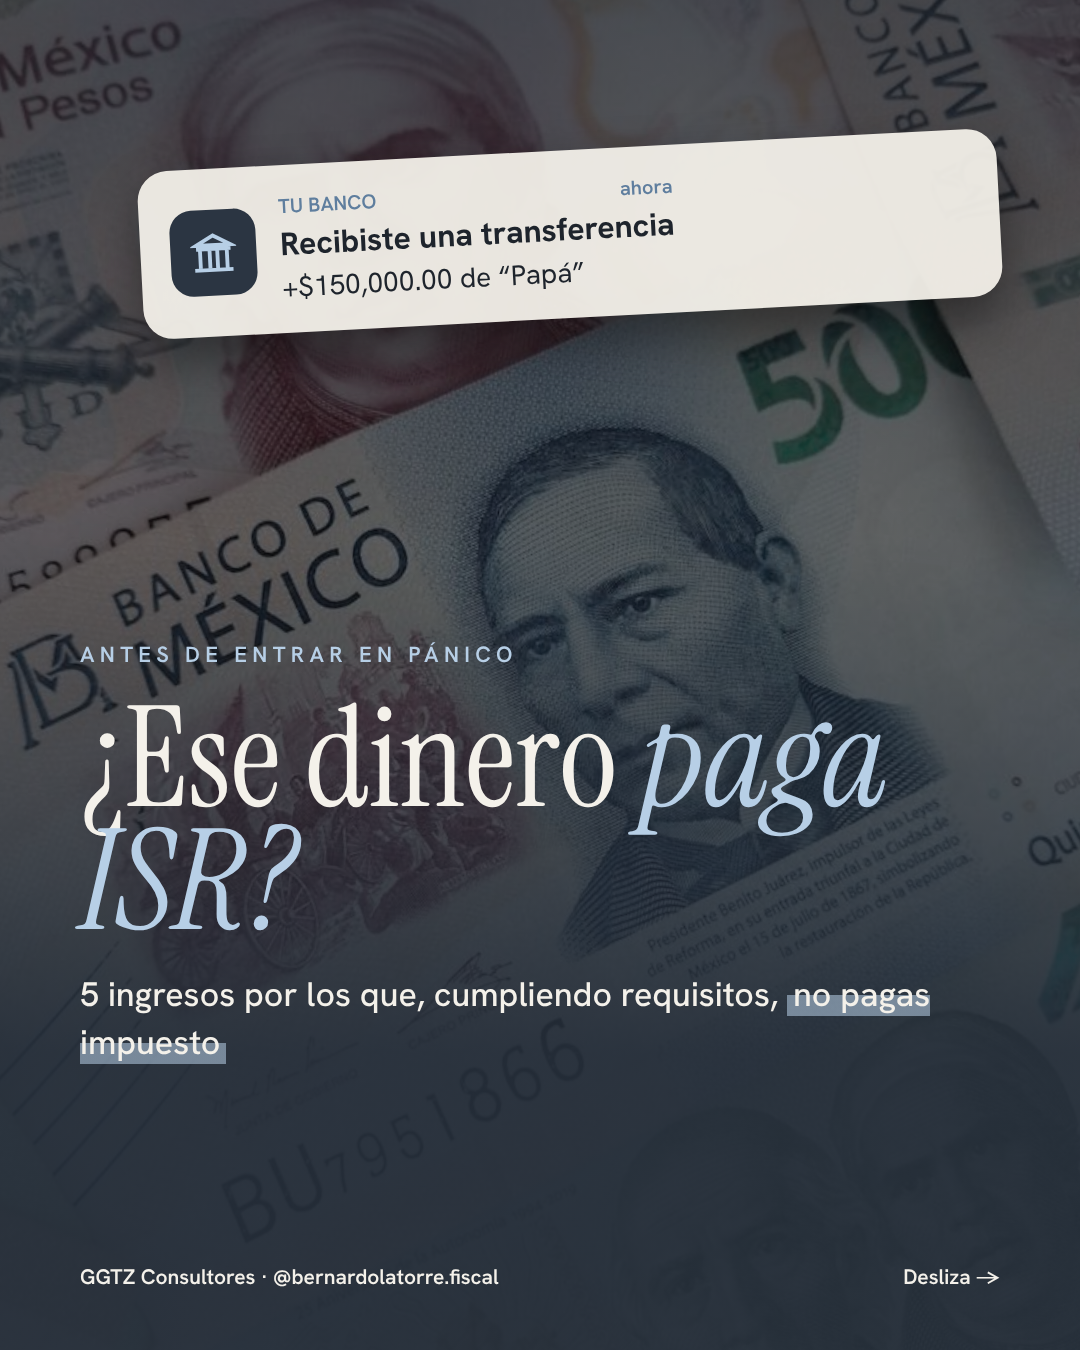
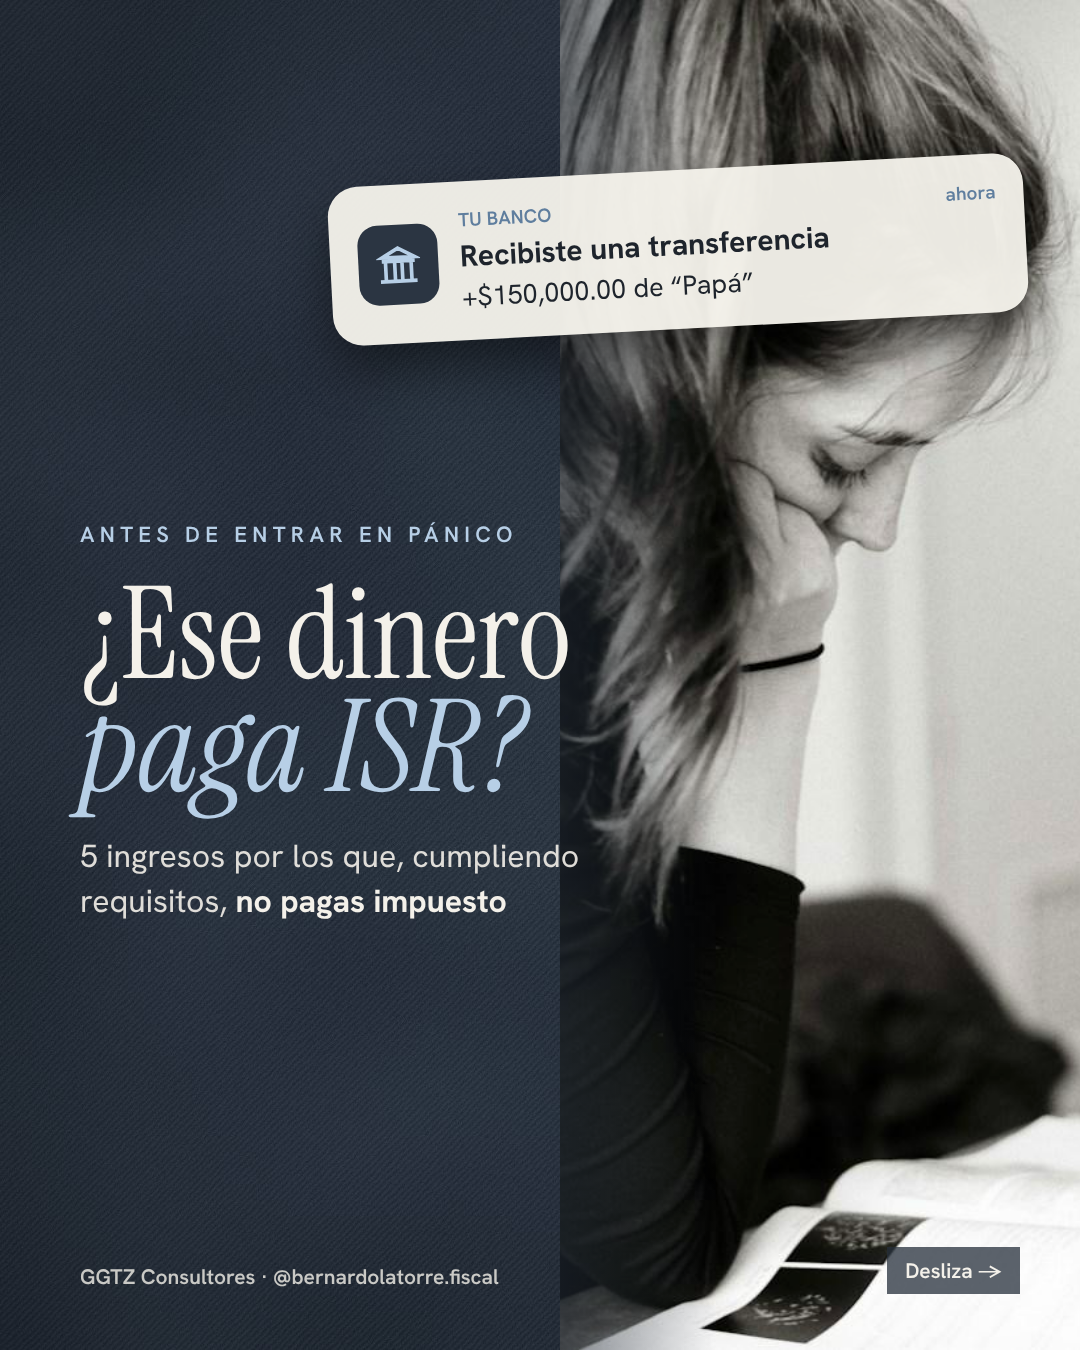
Portadas 20 y 22 oct sin billetes; regla de análisis de portadas
Claude-Session: https://claude.ai/code/session_01J2dboEZNzBYhxcXmwSfC74

diff --git a/recursos/plantillas/Nun-01-Portada.dc.html b/recursos/plantillas/Nun-01-Portada.dc.html
@@ -21,19 +21,22 @@ a{color:inherit}
 .kicker{font-size:22px;font-weight:600;letter-spacing:0.24em}
 </style>
 </helmet>
-<div class="bg-papel" style="width: 1080px; height: 1350px; position: relative; overflow: hidden; font-family: 'Hanken Grotesk', sans-serif; color: #1E242C;">
+<div class="" style="width: 1080px; height: 1350px; position: relative; overflow: hidden; font-family: 'Hanken Grotesk', sans-serif; color: #1E242C; background: #B7CFE6;">
 
-<div style="position: absolute; left: 0; top: 0; width: 1080px; height: 300px; overflow: hidden">
-<img src="/_blob/29e4c8d2580b23552880ae35ab069428" alt="Billetes mexicanos de 500, 200 y 50 pesos" style="width: 100%; height: 100%; object-fit: cover; object-position: 50% 45%; filter: saturate(0.85)">
+<div aria-hidden="true" style="position: absolute; inset: 0; background-image: radial-gradient(rgba(43,53,66,0.13) 2px, transparent 2.5px); background-size: 30px 30px"></div>
+<div class="serif" aria-hidden="true" style="position: absolute; right: -40px; top: -150px; font-size: 900px; line-height: 1; color: rgba(255,253,248,0.45)">5</div>
+<div style="position: absolute; left: 80px; top: 96px; right: 80px; display: flex; flex-direction: column; gap: 26px">
+<div style="align-self: flex-start; padding: 12px 22px; background: #2B3542; color: #F4F1EA; font-size: 20px; font-weight: 700; letter-spacing: 0.2em; transform: rotate(-2deg)">PALABRA DE CONTADOR</div>
+<h1 class="serif" style="margin: 0; font-size: 136px; line-height: 0.88; color: #1E242C">5 cosas que <em style="font-style: italic">nunca</em> haría con mis impuestos</h1>
 </div>
-<svg aria-hidden="true" style="position: absolute; left: 0; top: 270px" width="1080" height="60" viewBox="0 0 1080 60" preserveAspectRatio="none"><path d="M0 0 L0 30 L40 18 L85 36 L130 14 L180 34 L230 20 L275 38 L320 16 L370 32 L420 12 L465 34 L515 22 L560 40 L610 16 L655 30 L705 14 L750 36 L800 20 L850 38 L900 18 L945 32 L995 14 L1040 30 L1080 20 L1080 0 Z" fill="none"></path><path d="M0 30 L40 18 L85 36 L130 14 L180 34 L230 20 L275 38 L320 16 L370 32 L420 12 L465 34 L515 22 L560 40 L610 16 L655 30 L705 14 L750 36 L800 20 L850 38 L900 18 L945 32 L995 14 L1040 30 L1080 20 L1080 60 L0 60 Z" fill="#F4F1EA"></path></svg>
-<div style="position: absolute; left: 80px; top: 380px; right: 80px; display: flex; flex-direction: column; gap: 30px">
-<div class="kicker" style="color: #5F7E9E">PALABRA DE CONTADOR</div>
-<h1 class="serif" style="margin: 0; font-size: 150px; line-height: 0.86; color: #2B3542"><span style="font-size: 260px; line-height: 0.7; color: #C98F7E; float: left; margin: 18px 26px 0 -6px">5</span>cosas que <em style="font-style: italic">nunca</em> haría con mis impuestos</h1>
-<p style="margin: 0; font-size: 36px; line-height: 1.35; font-weight: 500">…ni con mi dinero. <span style="background: linear-gradient(transparent 52%, #B7CFE6 52%); padding: 0 6px">La 3 casi nadie la ve venir.</span></p>
+<div class="hoja" style="position: absolute; left: 110px; top: 700px; width: 700px; box-sizing: border-box; padding: 40px 50px 30px; transform: rotate(-3deg); box-shadow: 0 26px 50px rgba(30,36,44,0.28)">
+<div class="kicker" style="font-size: 19px; color: #5F7E9E; padding-bottom: 6px">MI LISTA DE “NO”</div>
+<div style="display: flex; align-items: center; gap: 22px; padding: 20px 0; border-bottom: 2px dashed rgba(43,53,66,0.18)"><svg aria-hidden="true" width="44" height="44" viewBox="0 0 24 24" style="flex-shrink: 0"><rect x="2" y="2" width="20" height="20" rx="4" fill="none" stroke="#2B3542" stroke-width="2"></rect><path d="M7 7l10 10M17 7L7 17" stroke="#C98F7E" stroke-width="3" stroke-linecap="round"></path></svg><span style="font-size: 34px; text-decoration: line-through; text-decoration-color: #C98F7E; text-decoration-thickness: 4px;">Comprar facturas</span></div><div style="display: flex; align-items: center; gap: 22px; padding: 20px 0; border-bottom: 2px dashed rgba(43,53,66,0.18)"><svg aria-hidden="true" width="44" height="44" viewBox="0 0 24 24" style="flex-shrink: 0"><rect x="2" y="2" width="20" height="20" rx="4" fill="none" stroke="#2B3542" stroke-width="2"></rect><path d="M7 7l10 10M17 7L7 17" stroke="#C98F7E" stroke-width="3" stroke-linecap="round"></path></svg><span style="font-size: 34px; text-decoration: line-through; text-decoration-color: #C98F7E; text-decoration-thickness: 4px;">Pedir factura de todo</span></div><div style="display: flex; align-items: center; gap: 22px; padding: 20px 0; border-bottom: 2px dashed rgba(43,53,66,0.18)"><svg aria-hidden="true" width="44" height="44" viewBox="0 0 24 24" style="flex-shrink: 0"><rect x="2" y="2" width="20" height="20" rx="4" fill="none" stroke="#2B3542" stroke-width="2"></rect><path d="M7 7l10 10M17 7L7 17" stroke="#C98F7E" stroke-width="3" stroke-linecap="round"></path></svg><span style="font-size: 34px; ">No facturar todo lo que…</span></div>
+<div style="height: 70px; background: linear-gradient(rgba(255,253,248,0), #FFFDF8)"></div>
 </div>
-<div style="position: absolute; left: 760px; top: 1060px; padding: 10px 24px; border: 5px solid #C98F7E; color: #C98F7E; font-size: 44px; font-weight: 700; letter-spacing: 0.18em; border-radius: 10px; transform: rotate(-12deg); opacity: 0.92">NUNCA</div>
-<div style="position: absolute; left: 80px; right: 80px; bottom: 60px; display: flex; justify-content: space-between; font-size: 21px; font-weight: 600; color: #5F7E9E"><span>GGTZ Consultores · @bernardolatorre.fiscal</span><span>Desliza →</span></div>
+<div aria-hidden="true" style="position: absolute; left: 380px; top: 676px; width: 200px; height: 40px; background: rgba(255,253,248,0.75); transform: rotate(4deg)"></div>
+<div class="sticker" style="position: absolute; left: 720px; top: 1010px; transform: rotate(8deg)"><div style="padding: 22px 28px; background: #C98F7E; color: #FFFFFF; border-radius: 50%; width: 200px; height: 200px; box-sizing: border-box; display: flex; align-items: center; justify-content: center; text-align: center; font-size: 25px; font-weight: 700; line-height: 1.2">La 3 casi nadie la ve venir</div></div>
+<div style="position: absolute; left: 80px; right: 80px; bottom: 60px; display: flex; justify-content: space-between; font-size: 21px; font-weight: 600; color: #2B3542"><span>GGTZ Consultores · @bernardolatorre.fiscal</span><span>Desliza →</span></div>
 
 </div>
 </x-dc>

diff --git a/recursos/plantillas/Exe-01-Portada.dc.html b/recursos/plantillas/Exe-01-Portada.dc.html
@@ -21,20 +21,23 @@ a{color:inherit}
 .kicker{font-size:22px;font-weight:600;letter-spacing:0.24em}
 </style>
 </helmet>
-<div class="" style="width: 1080px; height: 1350px; position: relative; overflow: hidden; font-family: 'Hanken Grotesk', sans-serif; color: #F4F1EA;">
+<div class="bg-sarga" style="width: 1080px; height: 1350px; position: relative; overflow: hidden; font-family: 'Hanken Grotesk', sans-serif; color: #F4F1EA;">
 
-<img src="/_blob/29e4c8d2580b23552880ae35ab069428" alt="Billetes de 500 pesos" style="position: absolute; inset: 0; width: 100%; height: 100%; object-fit: cover; object-position: 30% 50%; transform: scale(1.15) rotate(6deg); filter: saturate(0.7) brightness(0.55)">
-<div aria-hidden="true" style="position: absolute; inset: 0; background: linear-gradient(180deg, rgba(38,47,59,0.55) 0%, rgba(38,47,59,0.2) 40%, rgba(38,47,59,0.92) 78%)"></div>
-<div style="position: absolute; left: 140px; top: 150px; width: 800px; padding: 28px 30px; background: rgba(244,241,234,0.94); border-radius: 30px; color: #1E242C; display: flex; gap: 24px; align-items: center; box-shadow: 0 24px 50px rgba(0,0,0,0.4); transform: rotate(-3deg)">
-<div style="width: 86px; height: 86px; border-radius: 22px; background: #2B3542; display: flex; align-items: center; justify-content: center; flex-shrink: 0"><svg aria-hidden="true" width="46" height="46" viewBox="0 0 24 24" fill="none" stroke="#B7CFE6" stroke-width="2"><path d="M3 10h18M5 10V20M10 10v10M14 10v10M19 10v10M2 21h20M12 3l9 5H3z"></path></svg></div>
-<div style="display: flex; flex-direction: column; gap: 4px"><div style="display: flex; justify-content: space-between; font-size: 20px; color: #5F7E9E; font-weight: 600"><span>TU BANCO</span><span>ahora</span></div><div style="font-size: 32px; font-weight: 700">Recibiste una transferencia</div><div style="font-size: 28px">+$150,000.00 de “Papá”</div></div>
+<div style="position: absolute; right: 0; top: 0; width: 520px; height: 1350px; overflow: hidden">
+<img src="/_blob/a02e797c6e63f92e4b9aa4f8ded12cb8" alt="Mujer pensativa leyendo" style="width: 100%; height: 100%; object-fit: cover; object-position: 38% 50%">
+<div aria-hidden="true" style="position: absolute; inset: 0; background: linear-gradient(90deg, rgba(38,47,59,0.55) 0%, rgba(38,47,59,0) 30%)"></div>
 </div>
-<div style="position: absolute; left: 80px; right: 80px; top: 640px; display: flex; flex-direction: column; gap: 28px">
+<div style="position: absolute; left: 330px; top: 170px; width: 640px; padding: 26px 28px; background: rgba(244,241,234,0.96); border-radius: 30px; color: #1E242C; display: flex; gap: 22px; align-items: center; box-shadow: 0 26px 50px rgba(0,0,0,0.45); transform: rotate(-3deg)">
+<div style="width: 80px; height: 80px; border-radius: 20px; background: #2B3542; display: flex; align-items: center; justify-content: center; flex-shrink: 0"><svg aria-hidden="true" width="44" height="44" viewBox="0 0 24 24" fill="none" stroke="#B7CFE6" stroke-width="2"><path d="M3 10h18M5 10V20M10 10v10M14 10v10M19 10v10M2 21h20M12 3l9 5H3z"></path></svg></div>
+<div style="display: flex; flex-direction: column; gap: 4px; flex: 1"><div style="display: flex; justify-content: space-between; font-size: 19px; color: #5F7E9E; font-weight: 600"><span>TU BANCO</span><span>ahora</span></div><div style="font-size: 30px; font-weight: 700">Recibiste una transferencia</div><div style="font-size: 27px">+$150,000.00 de “Papá”</div></div>
+</div>
+<div style="position: absolute; left: 80px; top: 520px; width: 560px; display: flex; flex-direction: column; gap: 30px">
 <div class="kicker" style="color: #B7CFE6">ANTES DE ENTRAR EN PÁNICO</div>
-<h1 class="serif" style="margin: 0; font-size: 140px; line-height: 0.88">¿Ese dinero <em style="font-style: italic; color: #B7CFE6">paga ISR?</em></h1>
-<p style="margin: 0; font-size: 34px; line-height: 1.4; font-weight: 500">5 ingresos por los que, cumpliendo requisitos, <span style="background: linear-gradient(transparent 52%, rgba(183,207,230,0.55) 52%); padding: 0 6px">no pagas impuesto</span></p>
+<h1 class="serif" style="margin: 0; font-size: 128px; line-height: 0.88">¿Ese dinero <em style="font-style: italic; color: #B7CFE6">paga ISR?</em></h1>
+<p style="margin: 0; font-size: 32px; line-height: 1.4; color: rgba(244,241,234,0.9)">5 ingresos por los que, cumpliendo requisitos, <strong style="color: #F4F1EA">no pagas impuesto</strong></p>
 </div>
-<div style="position: absolute; left: 80px; right: 80px; bottom: 60px; display: flex; justify-content: space-between; font-size: 21px; font-weight: 600"><span>GGTZ Consultores · @bernardolatorre.fiscal</span><span>Desliza →</span></div>
+<div style="position: absolute; left: 80px; bottom: 60px; font-size: 21px; font-weight: 600; color: rgba(244,241,234,0.8)">GGTZ Consultores · @bernardolatorre.fiscal</div>
+<div style="position: absolute; right: 60px; bottom: 56px; padding: 10px 18px; background: rgba(38,47,59,0.75); font-size: 21px; font-weight: 600">Desliza →</div>
 
 </div>
 </x-dc>

diff --git a/recursos/plantillas/_gen_oct20_22.py b/recursos/plantillas/_gen_oct20_22.py
@@ -360,6 +360,48 @@ S["Exe-09-Cierre"] = cierre("¿Te depositaron", "y no sabes qué es?",
     "Agenda tu revisión", "<strong>¿Hacemos parte 2?</strong> Comenta “SÍ” y guarda este post.",
     "torres", "50% 80%", 9, TB, "Torres de Monterrey con la sierra")
 
+
+# ---------- Portadas v2 (sin billetes: no repetir motivo con RESICO) ----------
+def xrow(t, strike=True):
+    deco = "text-decoration: line-through; text-decoration-color: #C98F7E; text-decoration-thickness: 4px;" if strike else ""
+    return (f'<div style="display: flex; align-items: center; gap: 22px; padding: 20px 0; border-bottom: 2px dashed rgba(43,53,66,0.18)">'
+            f'<svg aria-hidden="true" width="44" height="44" viewBox="0 0 24 24" style="flex-shrink: 0"><rect x="2" y="2" width="20" height="20" rx="4" fill="none" stroke="#2B3542" stroke-width="2"></rect><path d="M7 7l10 10M17 7L7 17" stroke="#C98F7E" stroke-width="3" stroke-linecap="round"></path></svg>'
+            f'<span style="font-size: 34px; {deco}">{t}</span></div>')
+S["Nun-01-Portada"] = page("Nunca haría · Portada", "", "#1E242C", f"""
+<div aria-hidden="true" style="position: absolute; inset: 0; background-image: radial-gradient(rgba(43,53,66,0.13) 2px, transparent 2.5px); background-size: 30px 30px"></div>
+<div class="serif" aria-hidden="true" style="position: absolute; right: -40px; top: -150px; font-size: 900px; line-height: 1; color: rgba(255,253,248,0.45)">5</div>
+<div style="position: absolute; left: 80px; top: 96px; right: 80px; display: flex; flex-direction: column; gap: 26px">
+<div style="align-self: flex-start; padding: 12px 22px; background: #2B3542; color: #F4F1EA; font-size: 20px; font-weight: 700; letter-spacing: 0.2em; transform: rotate(-2deg)">PALABRA DE CONTADOR</div>
+<h1 class="serif" style="margin: 0; font-size: 136px; line-height: 0.88; color: #1E242C">5 cosas que <em style="font-style: italic">nunca</em> haría con mis impuestos</h1>
+</div>
+<div class="hoja" style="position: absolute; left: 110px; top: 700px; width: 700px; box-sizing: border-box; padding: 40px 50px 30px; transform: rotate(-3deg); box-shadow: 0 26px 50px rgba(30,36,44,0.28)">
+<div class="kicker" style="font-size: 19px; color: #5F7E9E; padding-bottom: 6px">MI LISTA DE “NO”</div>
+{xrow('Comprar facturas')}{xrow('Pedir factura de todo')}{xrow('No facturar todo lo que…', False)}
+<div style="height: 70px; background: linear-gradient(rgba(255,253,248,0), #FFFDF8)"></div>
+</div>
+{tape(380, 676, 200, 4, 'rgba(255,253,248,0.75)')}
+<div class="sticker" style="position: absolute; left: 720px; top: 1010px; transform: rotate(8deg)"><div style="padding: 22px 28px; background: #C98F7E; color: #FFFFFF; border-radius: 50%; width: 200px; height: 200px; box-sizing: border-box; display: flex; align-items: center; justify-content: center; text-align: center; font-size: 25px; font-weight: 700; line-height: 1.2">La 3 casi nadie la ve venir</div></div>
+<div style="position: absolute; left: 80px; right: 80px; bottom: 60px; display: flex; justify-content: space-between; font-size: 21px; font-weight: 600; color: #2B3542"><span>GGTZ Consultores · @bernardolatorre.fiscal</span><span>Desliza →</span></div>
+""", bg=" background: #B7CFE6;")
+
+S["Exe-01-Portada"] = page("No paga ISR · Portada", "bg-sarga", "#F4F1EA", f"""
+<div style="position: absolute; right: 0; top: 0; width: 520px; height: 1350px; overflow: hidden">
+<img src="{B('pensativa')}" alt="Mujer pensativa leyendo" style="width: 100%; height: 100%; object-fit: cover; object-position: 38% 50%">
+<div aria-hidden="true" style="position: absolute; inset: 0; background: linear-gradient(90deg, rgba(38,47,59,0.55) 0%, rgba(38,47,59,0) 30%)"></div>
+</div>
+<div style="position: absolute; left: 330px; top: 170px; width: 640px; padding: 26px 28px; background: rgba(244,241,234,0.96); border-radius: 30px; color: #1E242C; display: flex; gap: 22px; align-items: center; box-shadow: 0 26px 50px rgba(0,0,0,0.45); transform: rotate(-3deg)">
+<div style="width: 80px; height: 80px; border-radius: 20px; background: #2B3542; display: flex; align-items: center; justify-content: center; flex-shrink: 0"><svg aria-hidden="true" width="44" height="44" viewBox="0 0 24 24" fill="none" stroke="#B7CFE6" stroke-width="2"><path d="M3 10h18M5 10V20M10 10v10M14 10v10M19 10v10M2 21h20M12 3l9 5H3z"></path></svg></div>
+<div style="display: flex; flex-direction: column; gap: 4px; flex: 1"><div style="display: flex; justify-content: space-between; font-size: 19px; color: #5F7E9E; font-weight: 600"><span>TU BANCO</span><span>ahora</span></div><div style="font-size: 30px; font-weight: 700">Recibiste una transferencia</div><div style="font-size: 27px">+$150,000.00 de “Papá”</div></div>
+</div>
+<div style="position: absolute; left: 80px; top: 520px; width: 560px; display: flex; flex-direction: column; gap: 30px">
+<div class="kicker" style="color: #B7CFE6">ANTES DE ENTRAR EN PÁNICO</div>
+<h1 class="serif" style="margin: 0; font-size: 128px; line-height: 0.88">¿Ese dinero <em style="font-style: italic; color: #B7CFE6">paga ISR?</em></h1>
+<p style="margin: 0; font-size: 32px; line-height: 1.4; color: rgba(244,241,234,0.9)">5 ingresos por los que, cumpliendo requisitos, <strong style="color: #F4F1EA">no pagas impuesto</strong></p>
+</div>
+<div style="position: absolute; left: 80px; bottom: 60px; font-size: 21px; font-weight: 600; color: rgba(244,241,234,0.8)">GGTZ Consultores · @bernardolatorre.fiscal</div>
+<div style="position: absolute; right: 60px; bottom: 56px; padding: 10px 18px; background: rgba(38,47,59,0.75); font-size: 21px; font-weight: 600">Desliza →</div>
+""")
+
 for k, v in S.items():
     (OUT / f"{k}.dc.html").write_text(v)
 print(len(S))

diff --git a/recursos/historial.md b/recursos/historial.md
@@ -2,12 +2,12 @@
 
 La tarea programada lee este archivo antes de crear un carrusel (para no repetir tema, portada ni piezas) y le agrega una fila al terminar.
 
-| Fecha | Tema | Portada (composición) | Piezas nuevas estrenadas | Fotos usadas |
+| Fecha | Tema | Portada (composición + motivo principal) | Piezas nuevas estrenadas | Fotos usadas |
 |---|---|---|---|---|
 | 2026-10-09 | Deducciones personales | Ilustración tipo cooltura (v1) | — | — |
 | 2026-10-13 | Cierre fiscal 2026 | Foto a todo lo ancho (pareja con carta) + hoja rotada + sticker DIC 31 | Línea de tiempo + celular con captura del SAT; cuadrícula 2×2 + navegador | pareja-preocupada-carta, calculadora-escritorio, persona-calculadora-cuaderno, pilas-de-documentos, navidad-calle-mexicana-estrellas, monterrey-torres-sierra |
 | 2026-10-15 | RESICO | Billetes girados + tarjeta + sticker 1%–2.5% | Tabla oscura con barras; fórmula en bloques; tres polaroids; ejemplo numérico | billetes-pesos-mexicanos, terminal-pago-ticket, comerciante-celular, mujer-laptop-sonriendo, mano-firmando-documento, persona-calculadora-cuaderno, cerro-de-la-silla-atardecer |
-| 2026-10-20 | 5 cosas que, como contador, nunca haría con mis impuestos (idea de Berny, ref. @taxfi_) | Tipográfica: tira de billetes rasgada arriba + "5" gigante terracota + sello NUNCA | Índice numerado oscuro; ticket con sello FALSA; mito tachado vs realidad; chat de WhatsApp; dos cuentas lado a lado; recibo de ahorro | billetes-500-pesos, bolsas-de-compras, llaves-casa, taqueria-esquina, pago-tarjeta-terminal, monterrey-sierra-madre |
-| 2026-10-22 | Dinero que recibes y no paga ISR, parte 1 (idea de Berny, ref. @taxfi_) | Billetes de fondo + notificación bancaria "Recibiste $150,000" + pregunta grande | Diagrama de flujo gravado/exento/no ingreso; árbol familiar; barra tope vs excedente; post-its | billetes-500-pesos, apreton-de-manos, familia-al-aire-libre, monedas-pila, llaves-casa, reunion-oficina, monterrey-torres-sierra |
+| 2026-10-20 | 5 cosas que, como contador, nunca haría con mis impuestos (idea de Berny, ref. @taxfi_) | Fondo azul polvo liso con puntos + "5" gigante fantasma + hoja "Mi lista de NO" con tachas + sticker circular terracota (sin foto) | Índice numerado oscuro; ticket con sello FALSA; mito tachado vs realidad; chat de WhatsApp; dos cuentas lado a lado; recibo de ahorro | bolsas-de-compras, llaves-casa, taqueria-esquina, pago-tarjeta-terminal, monterrey-sierra-madre |
+| 2026-10-22 | Dinero que recibes y no paga ISR, parte 1 (idea de Berny, ref. @taxfi_) | Pantalla dividida: mitad sarga con título, mitad foto B/N (mujer pensativa) + notificación bancaria encima | Diagrama de flujo gravado/exento/no ingreso; árbol familiar; barra tope vs excedente; post-its | mujer-pensativa-bn, apreton-de-manos, familia-al-aire-libre, monedas-pila, llaves-casa, reunion-oficina, monterrey-torres-sierra |
 
 Temas ya cubiertos que no se repiten: Paquete Económico 2027, deducciones personales, cierre fiscal 2026, RESICO, 5 cosas que nunca haría, ingresos que no pagan ISR (parte 1; la parte 2 queda pendiente: venta de casa habitación, seguros, aguinaldo/prima/PTU exentos, etc.).

diff --git a/recursos/GUIA-ESTILO.md b/recursos/GUIA-ESTILO.md
@@ -26,6 +26,17 @@ Estándar aprobado por Berny el 9 de octubre de 2026 (versión "v2": Cierre fisc
   - Las capturas del SAT siempre van dentro de un marco de navegador o de celular y con contexto educativo.
   - No usar fotos con texto en inglés, ni moneda o formularios de otros países.
 
+## Portada: analizarla siempre contra las anteriores
+
+Berny pidió (10 oct 2026) que las portadas nunca se vean iguales. Antes de diseñar una portada, revisa las **4 últimas** en `historial.md` y compara estos 4 rasgos:
+
+1. **Motivo principal**: el objeto o la escena (billetes, pareja, lista, persona, edificio, gráfica…). **No se repite en las últimas 4 portadas.** Dinero (billetes o monedas) es el motivo más trillado del tema: úsalo como máximo 1 de cada 6 portadas.
+2. **Tipo de fondo**: foto a todo lo ancho, pantalla dividida, color liso, textura sin foto, collage. No repitas el mismo tipo en dos portadas seguidas.
+3. **Color dominante**: pizarra oscuro, marfil, azul polvo, salvia, terracota, foto en B/N. No repitas el de la portada anterior.
+4. **Acomodo del título**: abajo en tarjeta, arriba grande, mitad izquierda, centrado, dentro de un objeto (celular, hoja, ticket). No repitas el de la portada anterior.
+
+Después de renderizar, arma una tira con tu portada nueva junto a las 4 anteriores y mírala: si dos se parecen a primera vista, rehaz la nueva. Anota en `historial.md` la composición **y el motivo principal**.
+
 ## Ritmo visual (para que no se vea plano)
 
 - **Alternar fondos.** Nunca dos láminas seguidas con el mismo fondo. Las opciones son:
